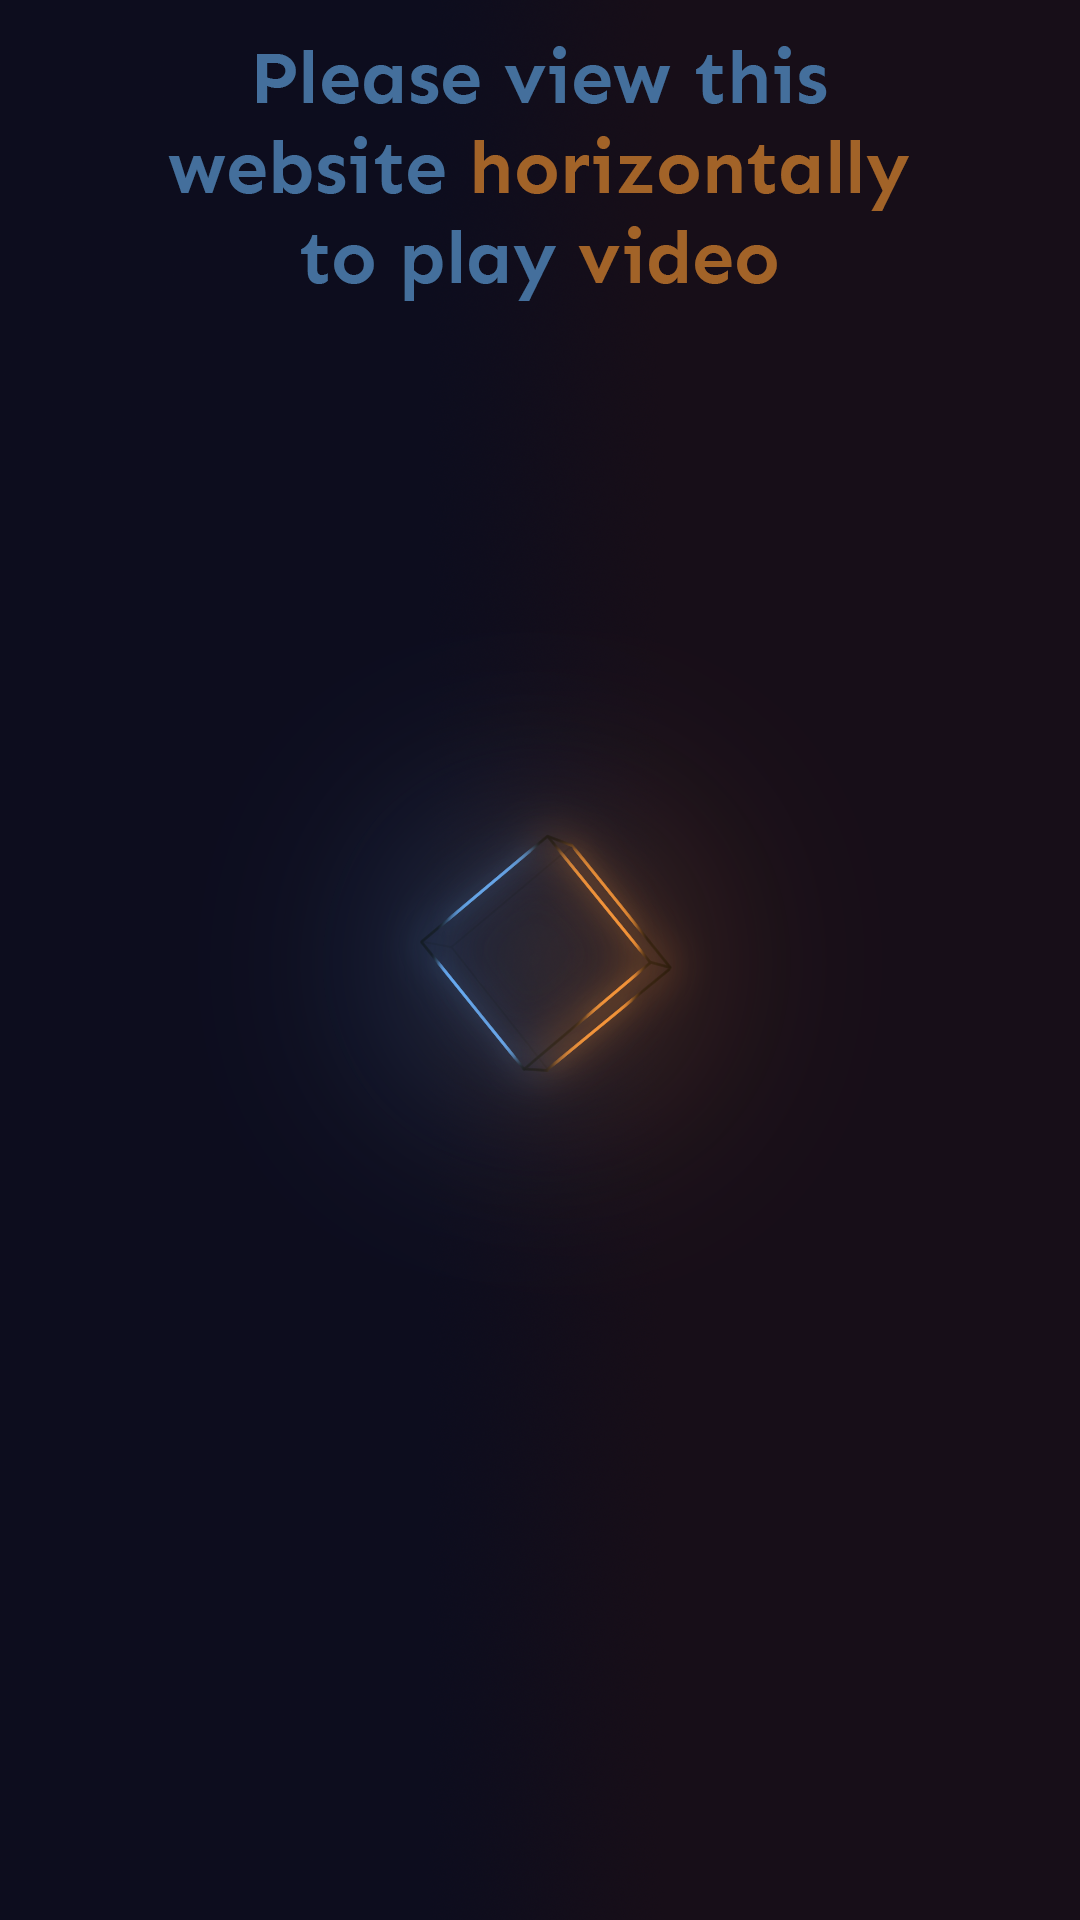
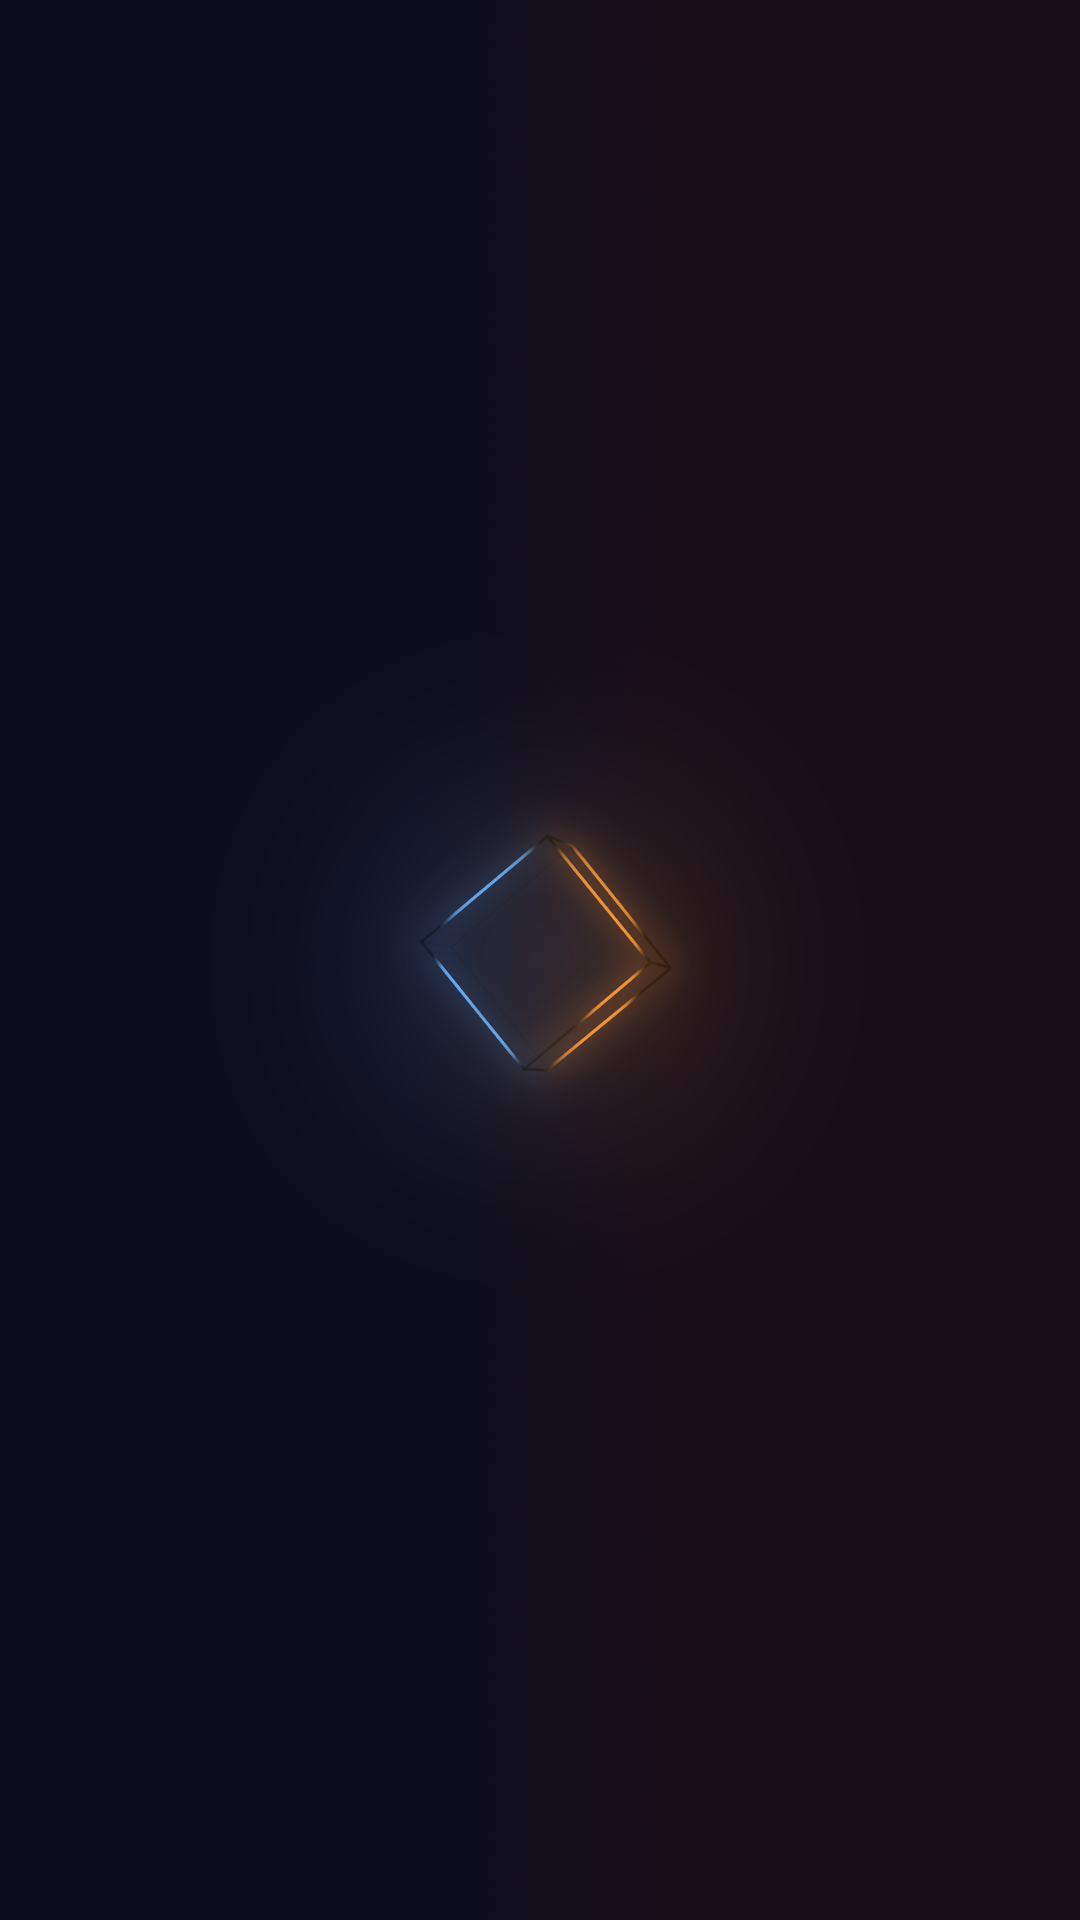
verticalFixed

Changed region(s): [[0.1528, 0.0312, 0.8556, 0.1562]]

diff --git a/styles/style.css b/styles/style.css
@@ -70,19 +70,27 @@ li a:hover:not(.active) {
   filter: brightness(88%);
 }
 
-/* .image-container {
-  display: none;
-} */
-
-/* .image-container img {
-  width: 100%;
-  height: 100%;
-} */
+.image-container {
+  display: flex;
+  justify-content: center;
+  filter: brightness(88%);
+}
 
 #imageOnly {
-  display: none ;
+  display: none;
   width: 100%;
-  height: 100%;
+  height: 100vh;
+  object-fit: cover;
+}
+
+.image-header {
+  display: none;
+  position: absolute;
+  text-align: center;
+  padding: 20px;
+  margin: 0;
+  font-size: 22px;
+  color: #4ab4e0;
 }
 
 .container {
@@ -244,6 +252,10 @@ li a:hover:not(.active) {
   } */
 
   #imageOnly {
+    display: block;
+  }
+
+  .image-header {
     display: block;
   }
 }

diff --git a/index.html b/index.html
@@ -55,6 +55,9 @@
     </video>
   </div>
   <div class="image-container">
+    <h1 class="image-header">Please view this website on a <span style="color: #f1933b;">bigger screen</span> to play
+      <span style="color: #f1933b;">video</span>
+    </h1>
     <img id="imageOnly" src="images/cubePortrait.png">
   </div>
 
